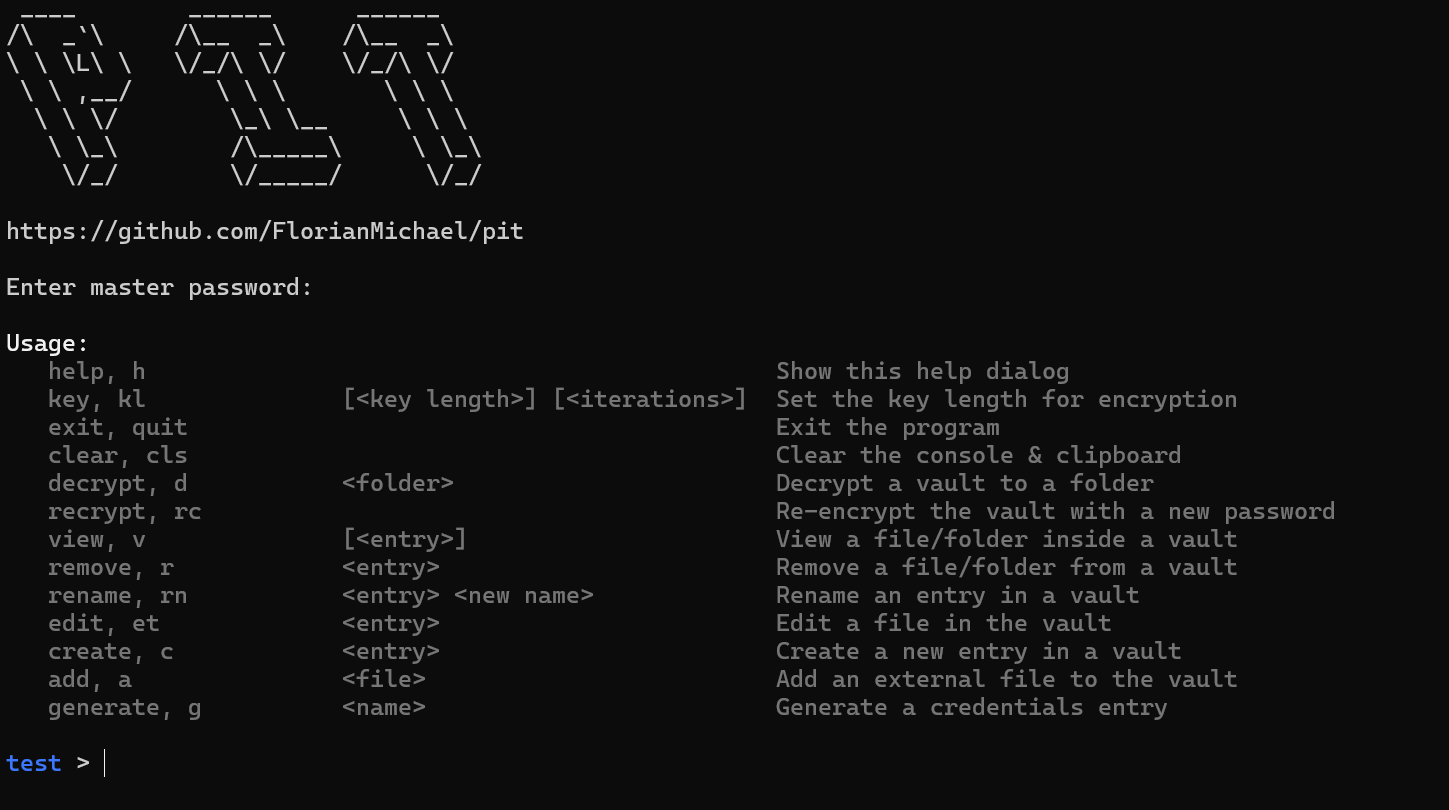
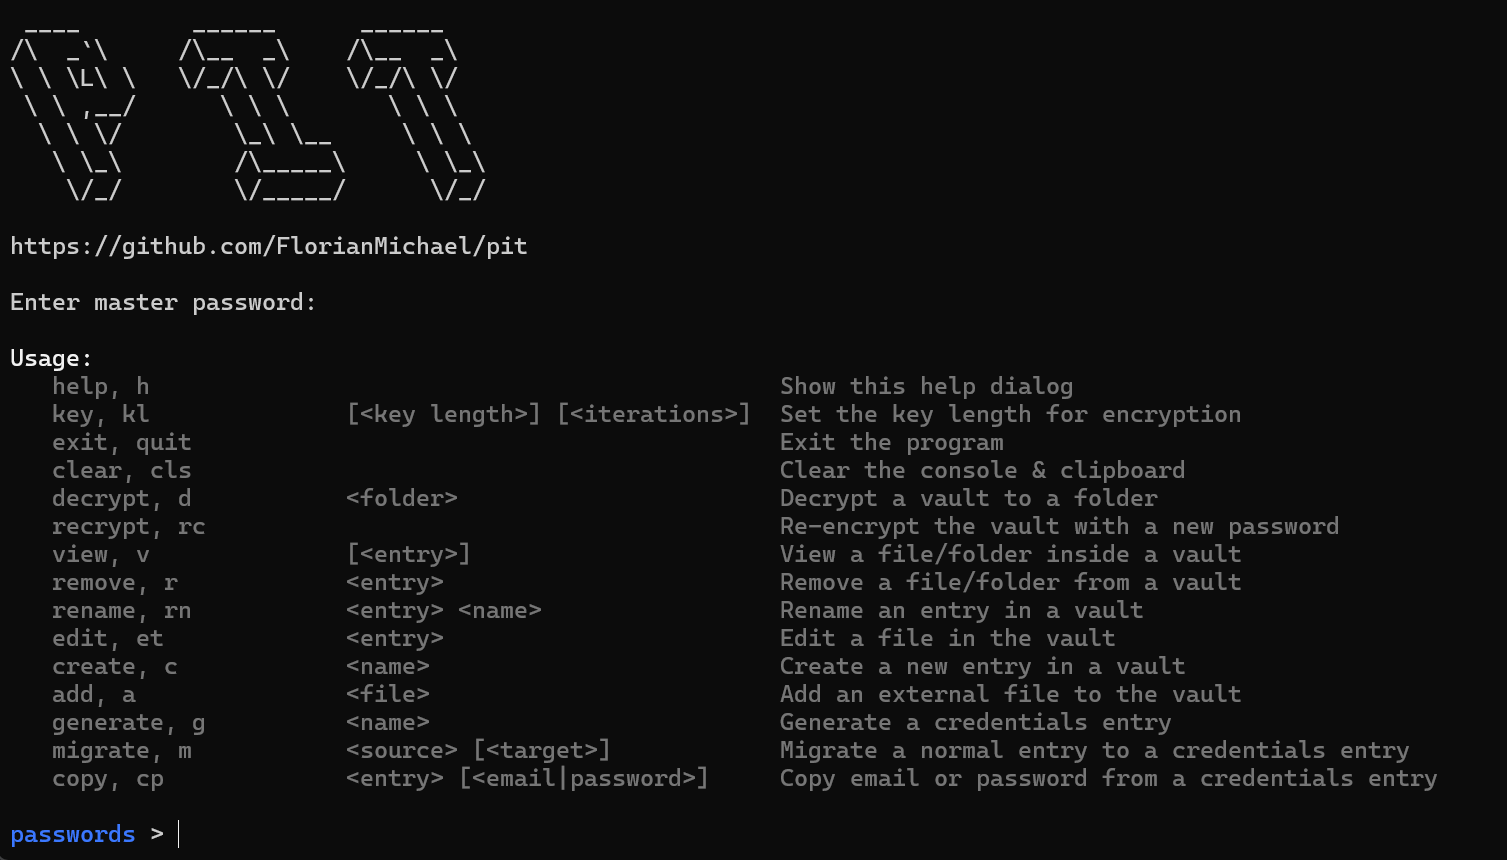
Update README.md

diff --git a/README.md b/README.md
@@ -1,16 +1,19 @@
 # private information tracker
 
-## Terminology
+PIT acts as a vault obfuscation tool allowing you to encrypt folders and files into compressed data object files which
+can only be accessed again using the master password.
 
-Originally meant to be a password management tool, PIT acts as a vault obfuscation tool allowing you to encrypt folders and files
-into compressed data object files which can only be accessed again using the master password.
+I originally wrote this as a more secure way to store my passwords locally, so PIT comes with some more specialized
+commands on credentials management.
+
+Please note that this tool is very specific to my own use-cases and may lack some general UX for other people.
 
 ![CLI](/.github/media/cli.png)
 
-Set up your vault using 
+Set up your vault using
 
 ``
-java -jar pit.jar init passwords
+java -jar pit.jar init example // vault name
 ``
 
 ![Session](/.github/media/session.png)
@@ -31,14 +34,14 @@ exit
 
 ----
 
-View again by:
+Get the password again by:
 
 ``
-java -jar pit.jar session passwords
+java -jar pit.jar session example
 ``
 
 ``
-view google
+copy google
 ``
 
 ``
@@ -46,6 +49,7 @@ exit
 ``
 
 ## Contact
+
 If you encounter any issues, please report them on the
 [issue tracker](https://github.com/FlorianMichael/pit/issues).  
 If you just want to talk or need help with pit feel free to join my
